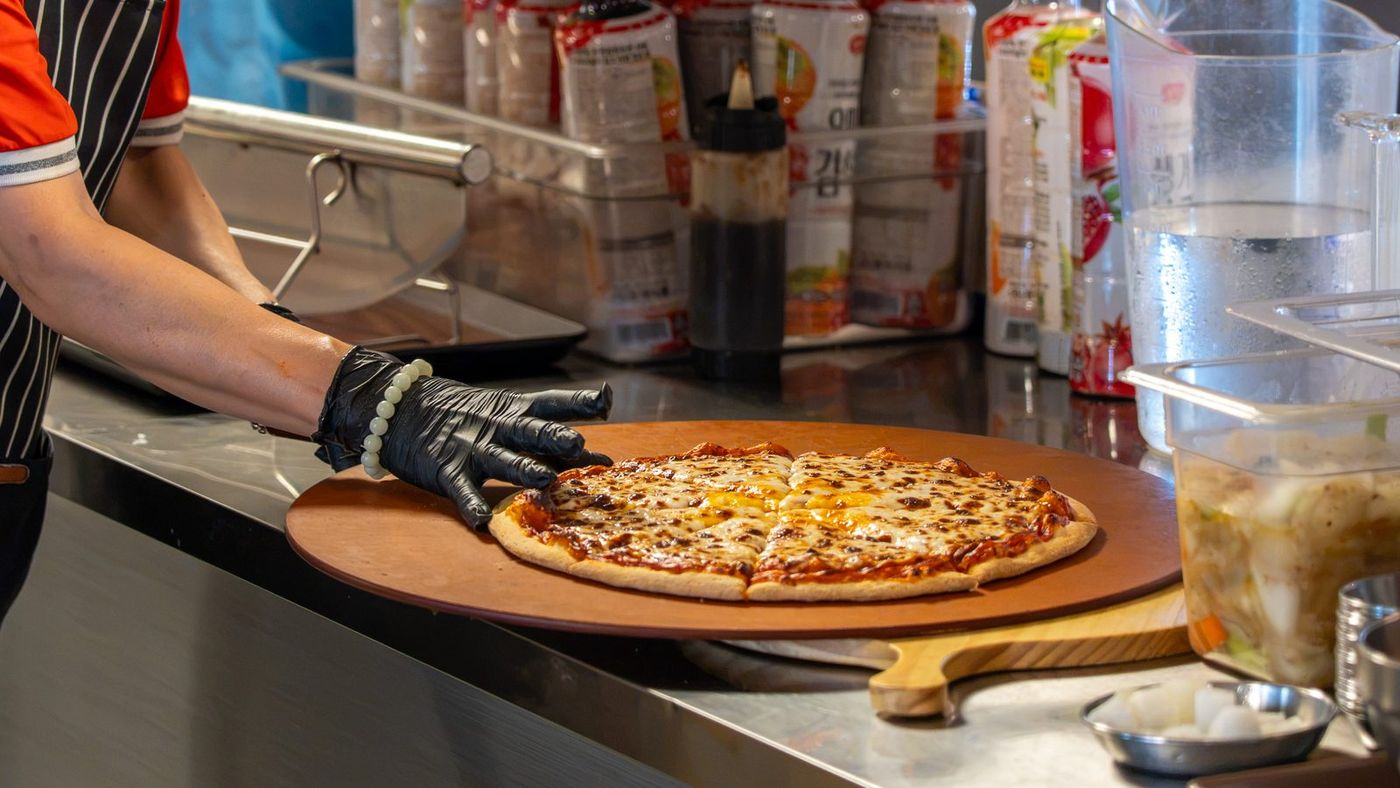
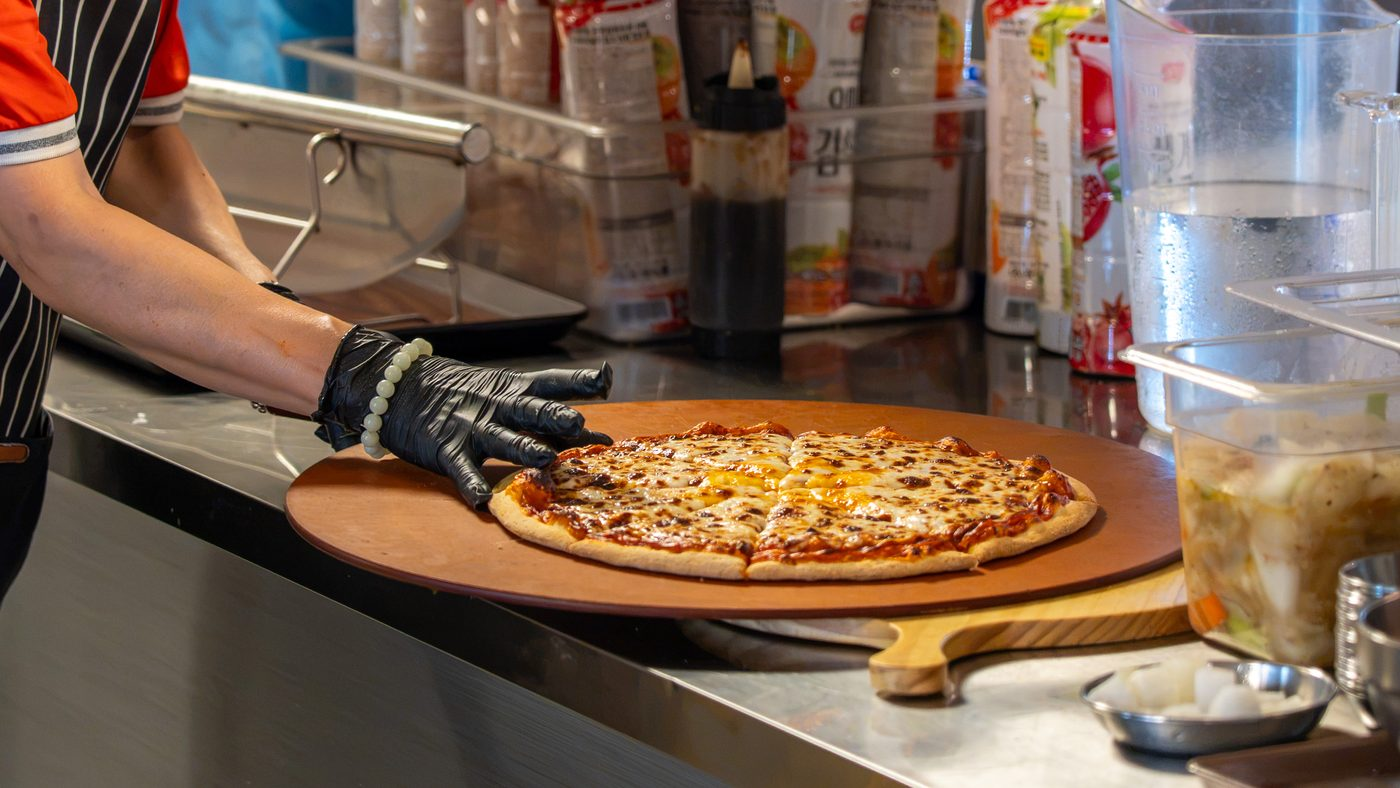
식당 전경 대표사진을 촬영 원본(MH_07415)에서 다시 추출
세로 사진이라 16:9 갤러리에 맞춰 pos .62 로 잘랐습니다 —
피자 전체와 손이 들어오고 빈 조리대는 최소로 남습니다.
재현할 수 있도록 tools/rebuild_photos.py 의 MAP 에도 등록했습니다.

diff --git a/data/site-data.js b/data/site-data.js
@@ -473,7 +473,7 @@ window.SITE_DATA = {
     hall: [
       // 첫 장이 섹션 대표 사진입니다 — 음식이 보이는 사진을 앞에 둡니다.
       // (예전 첫 장이던 rest-1 은 카운터 집기가 가득한 스냅이라 뒤로 옮겼습니다)
-      { src: "assets/img/hall/rest-2.jpg", cap: "화덕에서 갓 구워 낸 피자",          alt: "직원이 갓 구운 피자를 내는 모습" },
+      { src: "assets/img/hall/rest-2.jpg", cap: "화덕에서 갓 구워 낸 피자",          alt: "직원이 갓 구운 피자를 나무 판에 올리는 모습" },
       { src: "assets/img/hall/rest-3.jpg", cap: "주방에서 그때그때 조리합니다",      alt: "조리 중인 식당 주방" },
       { src: "assets/img/hall/rest-1.jpg", cap: "주문하시면 바로 만들어 드립니다",   alt: "식당 카운터에서 일하는 직원" },
       { src: "assets/img/hall/rest-4.jpg", cap: "매점 · 음료 · 아이스크림 코너",     alt: "매점과 음료 코너" },

diff --git a/tools/rebuild_photos.py b/tools/rebuild_photos.py
@@ -64,6 +64,11 @@ MAP = {
     "kids.jpg":      ("MH_07172", 5 / 4, 900, .50),
     "arcade.jpg":    ("MH_07038", 5 / 4, 900, .50),
 
+    # ── 식당 전경 (16:9) ───────────────────────────────
+    # 세로 사진이라 위아래를 크게 잘라냅니다.
+    # pos .62 = 피자와 손이 다 들어오고 빈 조리대는 최소로 남는 자리
+    "hall/rest-2.jpg": ("MH_07415", 16 / 9, 1400, .62),
+
     # ── 옥상 물놀이 ────────────────────────────────────
     "waterplay.jpg":       ("MH_06456", 5 / 2, 1600, .55),  # 대표 사진
     "waterplay-air.jpg":   ("MH_06445", 5 / 4,  900, .50),
